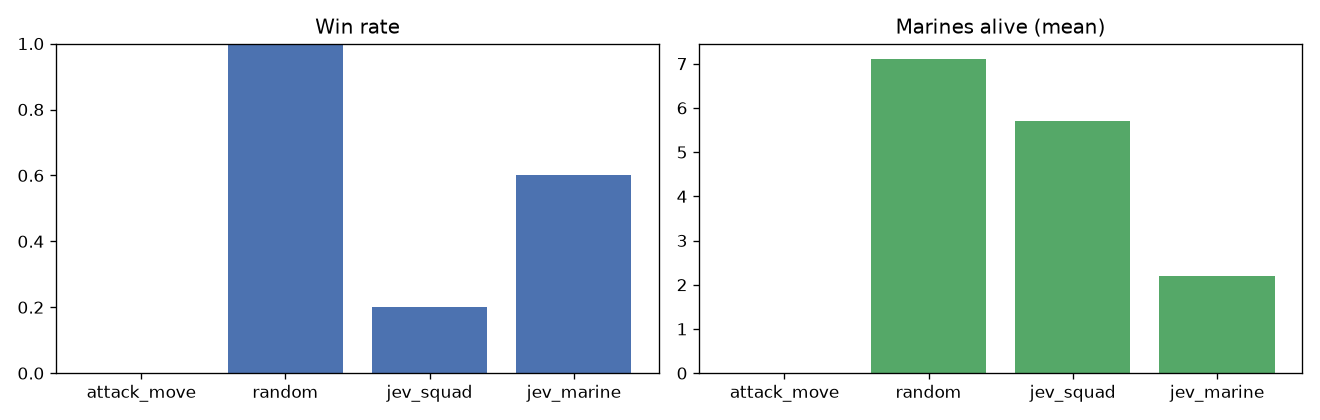
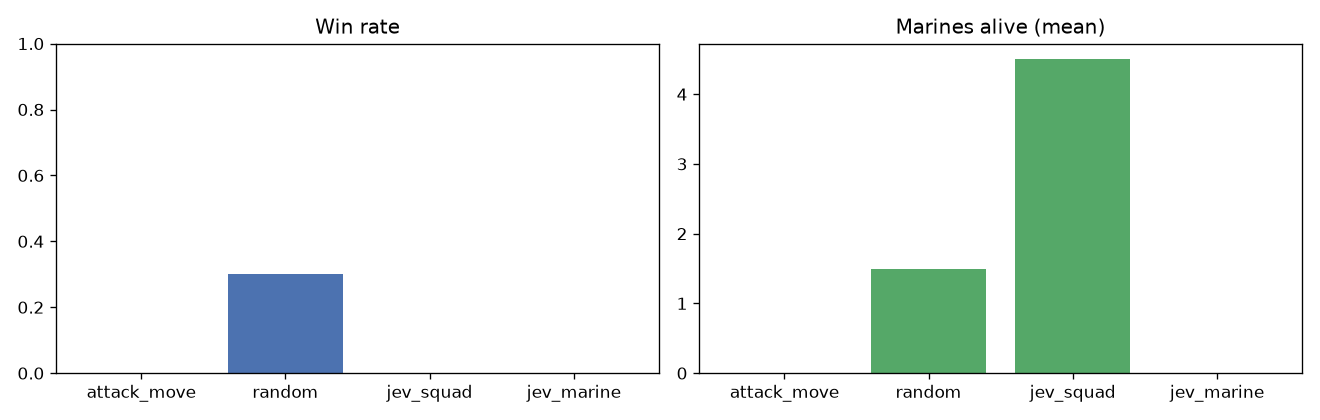
feat(003): round 3b - 14 banelings, stim criteria; results

diff --git a/003-sc2-marine-micro/src/arena/config.py b/003-sc2-marine-micro/src/arena/config.py
@@ -4,7 +4,7 @@ MAP_NAME = "Flat128"
 CENTER = (64.0, 64.0)
 
 MARINE_COUNT = 12
-BANELING_COUNT = 6
+BANELING_COUNT = 14
 ZERGLING_COUNT = 10
 MARINE_OFFSET = (-7.0, 0.0)
 BANELING_OFFSET = (7.0, 0.0)
@@ -32,7 +32,7 @@ ACTIONS = {
     "clump": "No banelings remain, only zerglings: group up and focus fire",
     "retreat": "Banelings are about to reach a clumped squad and marines cannot spread in time: back off while they chase",
     "attack": "No baneling is within 4 cells: attack the enemy now",
-    "stim": "Enemies are within 6 cells, no marine is stimmed and most marines have more than 20 HP: stim to fight harder",
+    "stim": "Enemies are within 8 cells and no marine is stimmed yet: stim now; stim nearly doubles damage and is worth it once per fight",
 }
 
 SQUAD_INSTRUCTIONS = (
@@ -62,7 +62,7 @@ MARINE_ACTIONS = {
     "kite": "a baneling is within 3 cells of this marine: step away from it, then keep attacking",
     "split": "another marine is within 1 cell and a baneling is within 6 cells: step away from that marine, then keep attacking",
     "attack": "no baneling is within 3 cells of this marine: attack the nearest enemy",
-    "stim": "enemies are within 6 cells, this marine is not stimmed and has more than 20 HP: stim",
+    "stim": "this marine is not stimmed, has more than 20 HP and enemies are within 8 cells: stim now; stim nearly doubles damage and pays off in almost every fight",
     "retreat": "this marine has 15 HP or less and enemies are close: fall back",
 }
 

diff --git a/003-sc2-marine-micro/results/table.md b/003-sc2-marine-micro/results/table.md
@@ -1,6 +1,6 @@
 | Policy | Runs | Wins | Score | Win rate | Marines alive | Enemies killed | Fight s | Median ms | p90 ms | Cost USD |
 |---|---|---|---|---|---|---|---|---|---|---|
-| attack_move | 10 | 0 | 0 | 0.00 | 0 | 9.30 | 5.08 | - | - | 0.00 |
-| random | 10 | 10 | 16 | 1.00 | 7.10 | 16 | 13.18 | - | - | 0.00 |
-| jev_squad | 10 | 2 | 6.80 | 0.20 | 5.70 | 7.80 | 46.78 | 139.50 | 178.70 | 0.08 |
-| jev_marine | 10 | 6 | 9.60 | 0.60 | 2.20 | 14.10 | 18.38 | 147.30 | 190.40 | 0.05 |
+| attack_move | 10 | 0 | 0 | 0.00 | 0 | 9.20 | 3.61 | - | - | 0.00 |
+| random | 10 | 3 | 13.50 | 0.30 | 1.50 | 21.30 | 37.41 | - | - | 0.00 |
+| jev_squad | 2 | 0 | 9 | 0.00 | 4.50 | 9 | 60.00 | 154.60 | 211.60 | 0.02 |
+| jev_marine | 10 | 0 | 0 | 0.00 | 0 | 11.60 | 14.12 | 166.80 | 1116.10 | 0.04 |

diff --git a/003-sc2-marine-micro/results/round3a/table.md b/003-sc2-marine-micro/results/round3a/table.md
@@ -1,0 +1,6 @@
+| Policy | Runs | Wins | Score | Win rate | Marines alive | Enemies killed | Fight s | Median ms | p90 ms | Cost USD |
+|---|---|---|---|---|---|---|---|---|---|---|
+| attack_move | 10 | 0 | 0 | 0.00 | 0 | 9.30 | 5.08 | - | - | 0.00 |
+| random | 10 | 10 | 16 | 1.00 | 7.10 | 16 | 13.18 | - | - | 0.00 |
+| jev_squad | 10 | 2 | 6.80 | 0.20 | 5.70 | 7.80 | 46.78 | 139.50 | 178.70 | 0.08 |
+| jev_marine | 10 | 6 | 9.60 | 0.60 | 2.20 | 14.10 | 18.38 | 147.30 | 190.40 | 0.05 |
